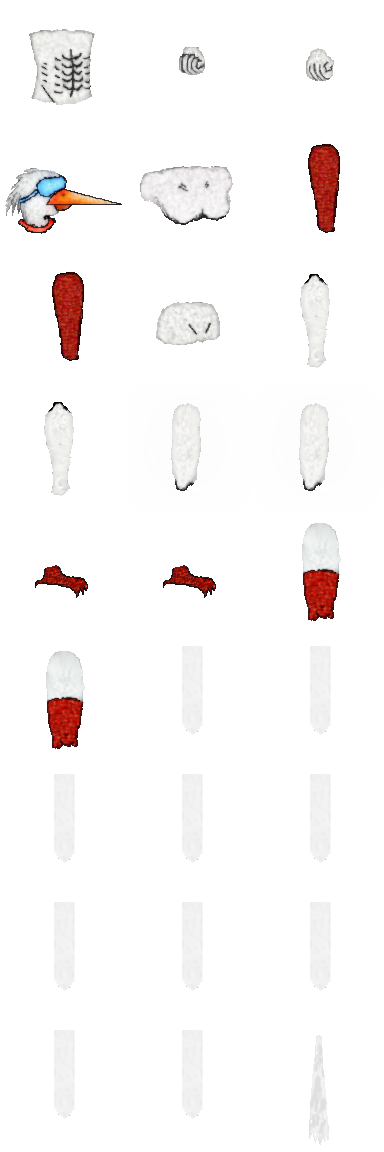
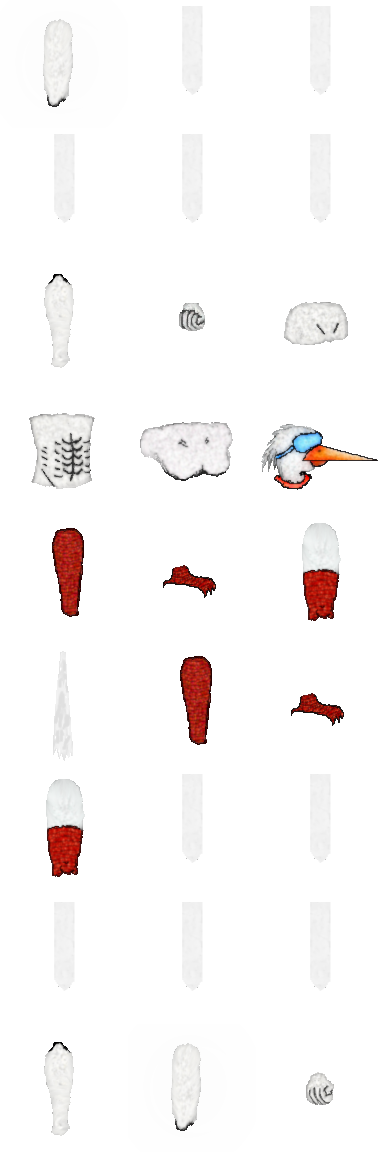
made it so animation textures are stored in drawing order not enum order (and removed enum order also)

diff --git a/graphics.cpp b/graphics.cpp
@@ -92,8 +92,8 @@ void Dynamic_animatable::animate(std::vector<float> frame)
 	vec[tree.root].pos.x = frame[0];
 	vec[tree.root].pos.y = frame[1];
 	vec[tree.root].r = frame[2];
-	parts[map_stork_drawing_sequence_to_enum[tree.root]].setRotation(vec[tree.root].r);
-	parts[map_stork_drawing_sequence_to_enum[tree.root]].setPosition(vec[tree.root].pos);
+	parts[tree.root].setRotation(vec[tree.root].r);
+	parts[tree.root].setPosition(vec[tree.root].pos);
 	std::queue<int> q;
 	q.push(tree.root);
 	while (!q.empty())
@@ -109,13 +109,13 @@ void Dynamic_animatable::animate(std::vector<float> frame)
 			vec[next].pos = count_pos(vec[current].pos, 128, 128,
 				tree.nodes[next].delta_pos[0], vec[current].r,
 				tree.nodes[next].delta_pos[1], vec[next].r);
-			parts[map_stork_drawing_sequence_to_enum[next]].setRotation(vec[next].r);
-			parts[map_stork_drawing_sequence_to_enum[next]].setPosition(vec[next].pos);
+			parts[next].setRotation(vec[next].r);
+			parts[next].setPosition(vec[next].pos);
 		}
 		tex.clear(sf::Color(0, 0, 0, 0));
 		for (int i = 0; i < tree.nodes.size(); i++)
 		{
-			tex.draw(parts[map_stork_drawing_sequence_to_enum[i]]);
+			tex.draw(parts[i]);
 		}
 		tex.display();
 		sprite.setTexture(tex.getTexture());

diff --git a/util.h b/util.h
@@ -9,15 +9,6 @@ const float PI = 3.1415927f;
 enum Entity_status { IDLE = 0, MOVE, JUMP_IDLE, JUMP_RUN, PUNCH_1, HIT, IN_AIR };
 enum Animation_status { A_IDLE = 0, A_MOVE, A_JUMP_IDLE, A_JUMP_RUN, A_JUMP_RUN2, A_PUNCH_1, A_HIT };
 enum Colidable_type { GROUND, ENEMY, OTHER };
-enum Stork_parts {
-	BELLY = 0, L_HAND, R_HAND, HEAD, CHEST, L_CALF, R_CALF, PELVIS, L_FOREARM,
-	R_FOREARM, L_ARM, R_ARM, L_FOOT, R_FOOT, L_TIGH, R_TIGH, R_WING_1, R_WING_2,
-	R_WING_3, R_WING_4, R_WING_5, L_WING_1, L_WING_2, L_WING_3, L_WING_4, L_WING_5,
-	TAIL
-};
-
-const int map_stork_drawing_sequence_to_enum[] = {10, 21, 22, 23, 24, 25, 8, 1,
-	7, 0, 4, 3, 5, 12, 14, 26, 6, 13, 15, 16, 17, 18, 19, 20, 9, 11, 2};
 
 const Vectorf max_force = { 1000.f, 1000.0f };
 const float max_run_speed = 5.f;
